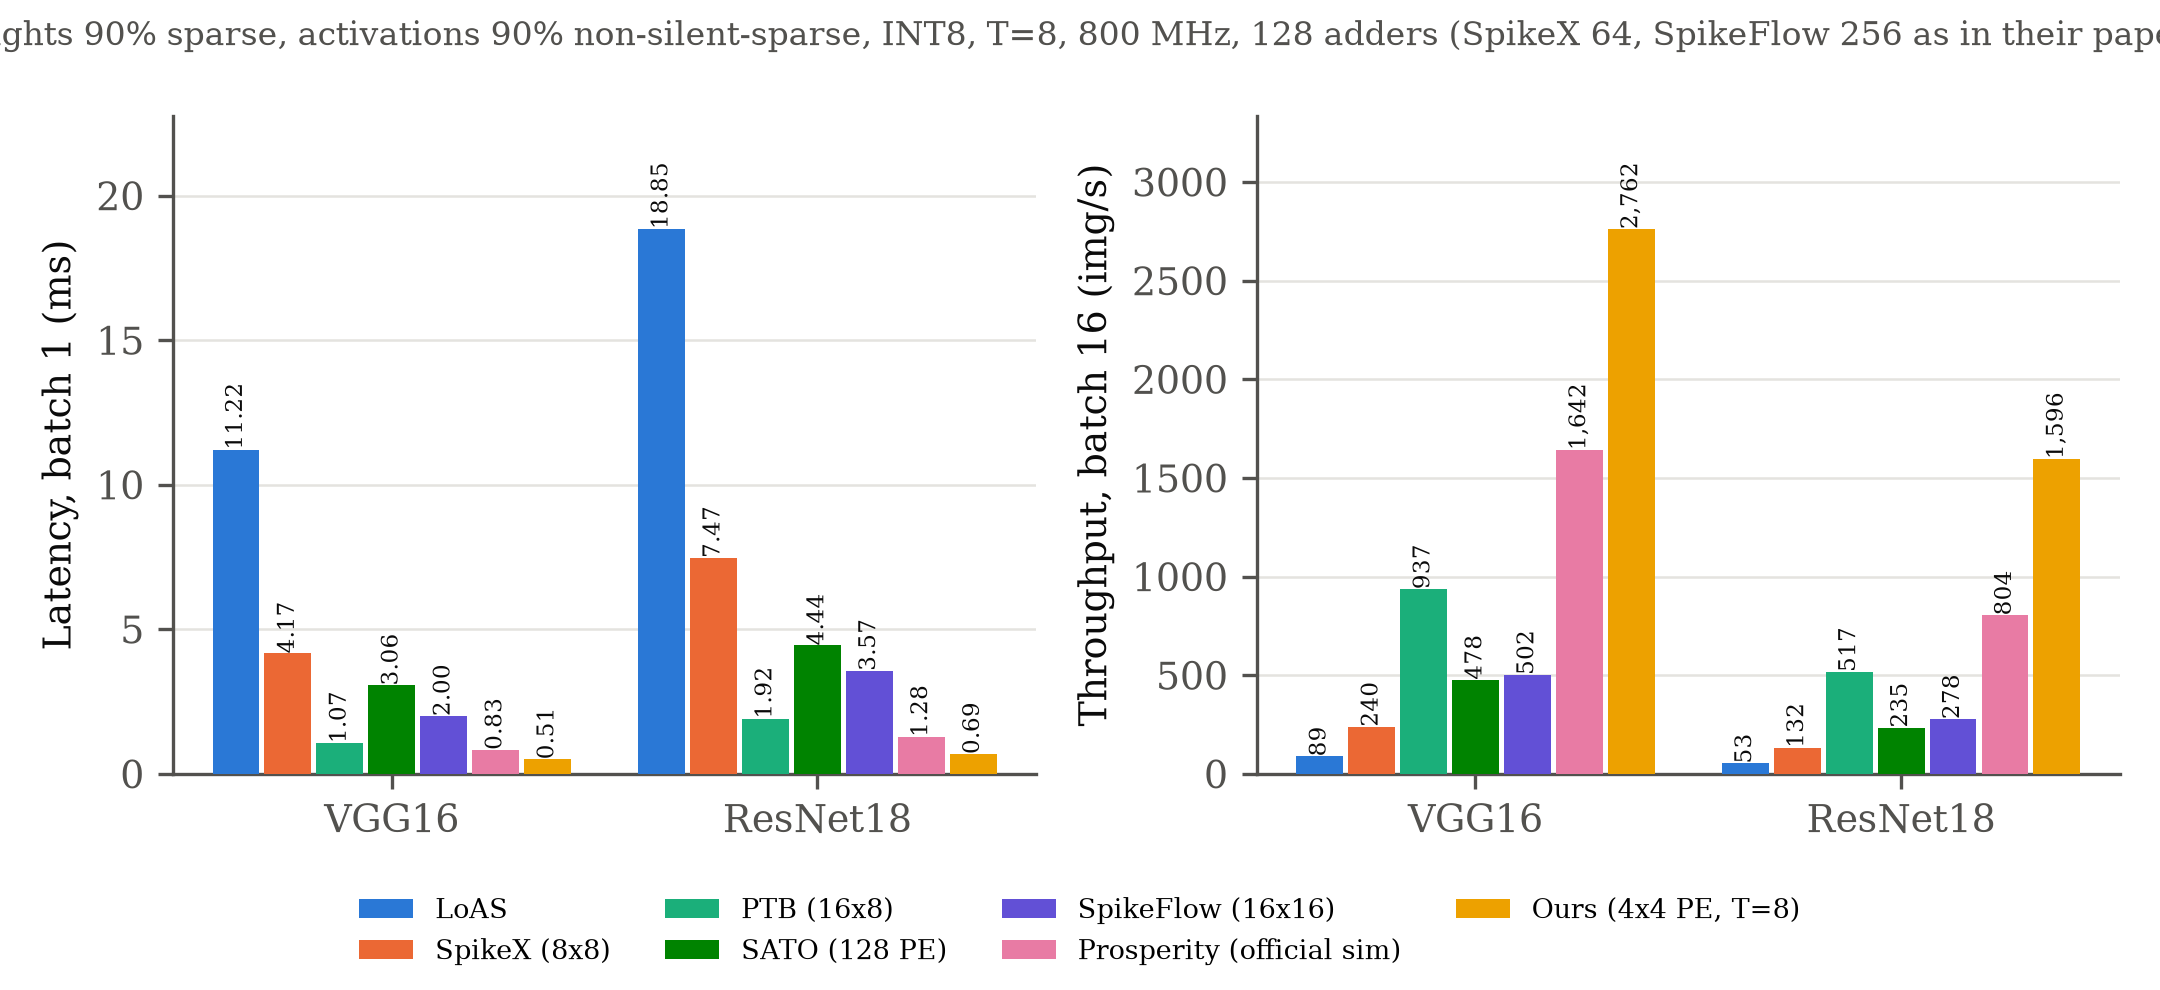
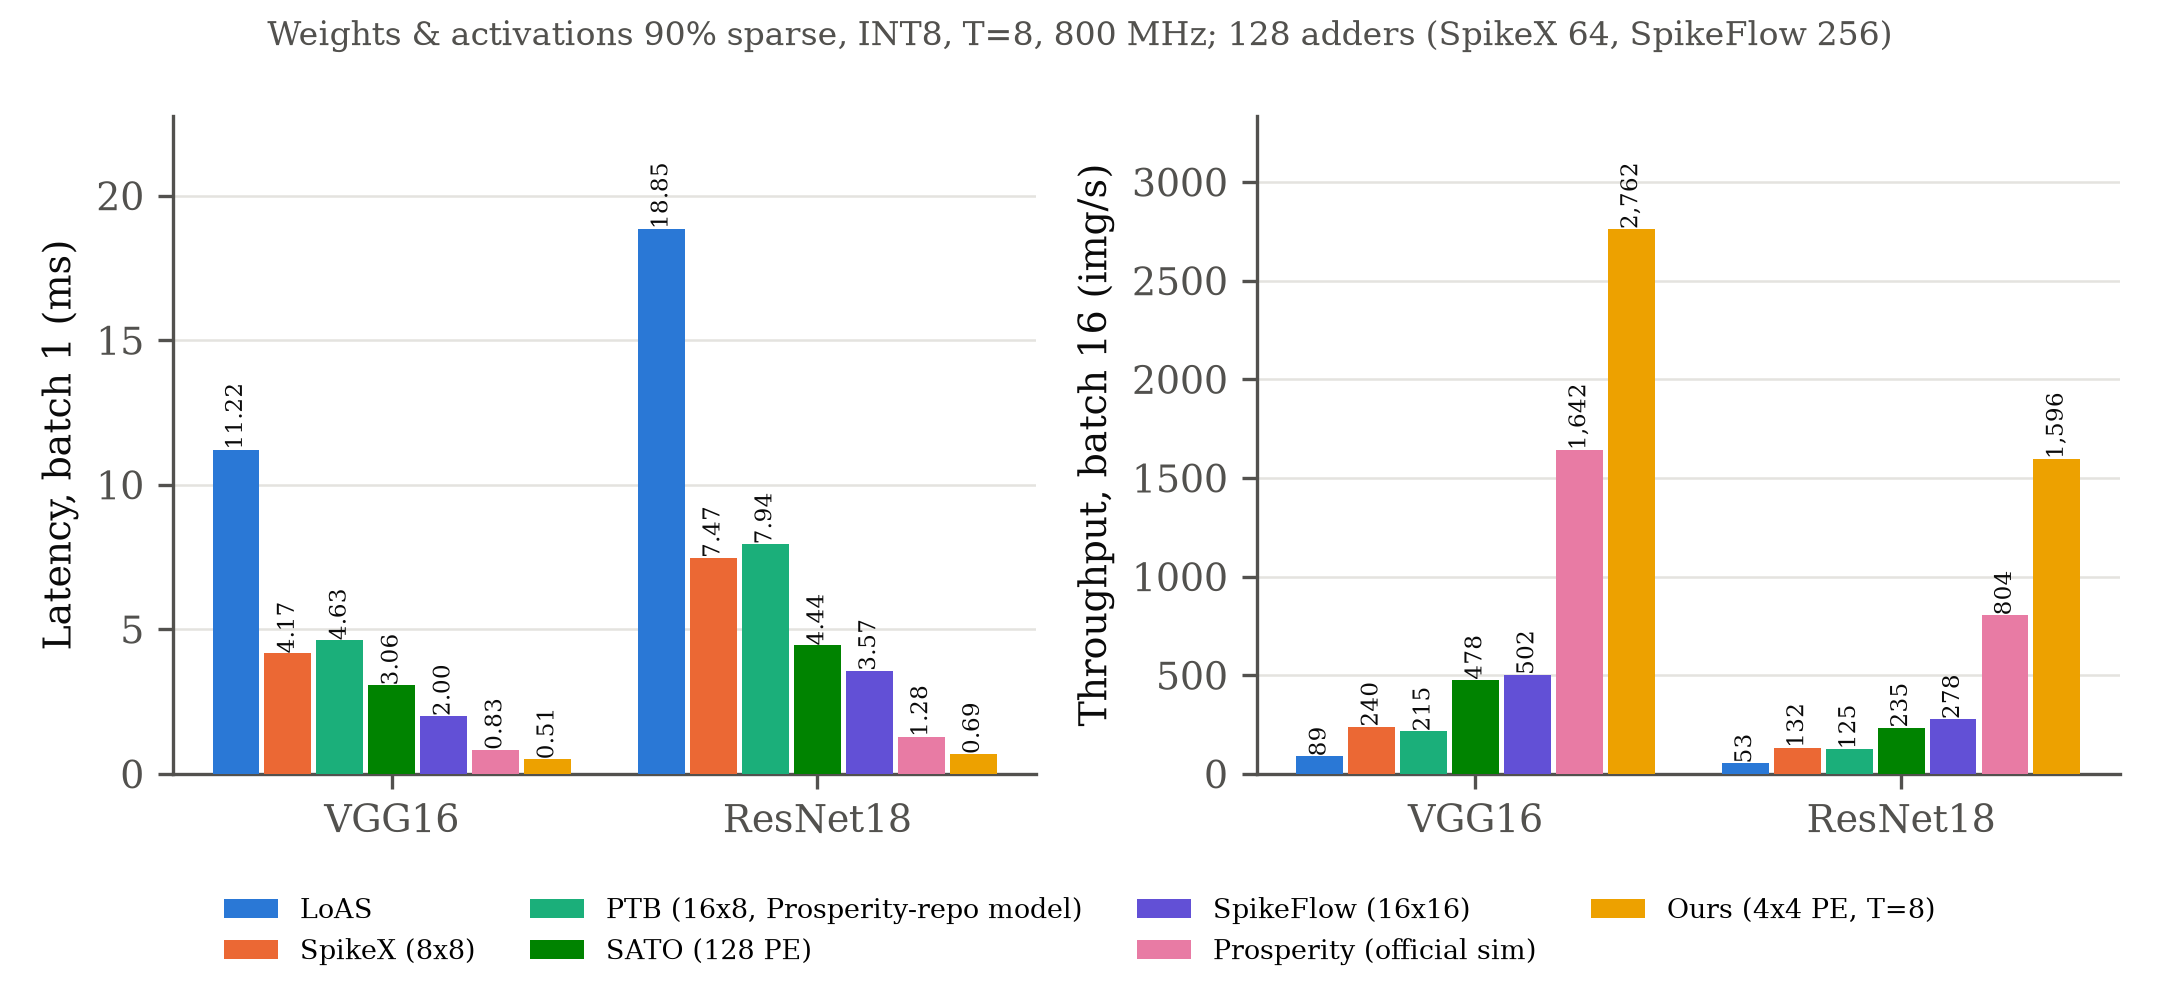
Use the Prosperity repo's PTB model for PTB latency/throughput
- prosperity_official.py ptb_ours: our workloads as official Conv2D/FC + LIF
  operators, run through the unmodified run_simulation_PTB (TWS=4, StSAP,
  cold start, DRAM stalls); batch 16 = 16 images in sequence
- tables/plot now use it; our own (generous) PTB model kept in main.json
- README: energy section flagged as using the old PTB latency and power

diff --git a/dac2027_sim/prosperity_official.py b/dac2027_sim/prosperity_official.py
@@ -229,6 +229,59 @@ def _one(t):
 
 sys.path.insert(1, HERE)
 
+def ptb_ops_image(net, batch, b, wd, ns, q, T=8):
+    """one image (b) of our batch as official Conv2D / FC + LIF operators (conv inputs = feature maps, so the
+    Prosperity repo's own img2col and time-window packing run on them). Same seeds/tensors as run_all.py."""
+    import workload as wl
+    ops = []
+    for li, layer in enumerate(wl.NETWORKS[net]()):
+        name, ci, co, k, s, h = layer
+        M, K, N = wl.gemm_shape(layer, batch)
+        seed = zlib.crc32(f"{net}|{li}|{batch}|{wd}|{ns}|{q}".encode())
+        rng = np.random.default_rng(seed)
+        wl.rand_weights(rng, M, K, wd)                       # same draw order as workload.layer_tensors
+        X = wl.rand_spikes(rng, (batch, ci, h, h), ns, q)[b]  # (C, H, H) T-bit trains of image b
+        bits = ((X[None] >> np.arange(T)[:, None, None, None]) & 1).astype(np.float32)   # T, C, H, H
+        if k > 1 or s > 1 or h > 1:
+            op = NW.Conv2D(f"conv2d_{li}", h, ci, co, k, k // 2, s, 1, T)
+            op.activation_tensor.sparse_map = torch.from_numpy(bits)
+            nn_out = op.output_H * op.output_H * co
+        else:
+            op = NW.FC(f"fc_{li}", ci, co, 1, 1, T)
+            op.activation_tensor.sparse_map = torch.from_numpy(bits.reshape(1, T, 1, ci))
+            nn_out = co
+        ops.append(op)
+        ops.append(NW.LIFNeuron(f"lif_{li}", nn_out, 1, T))
+    return ops
+
+
+def ptb_ours():
+    """PTB = the Prosperity repo's run_simulation_PTB, unmodified. Batch 16 = the 16 images run one after
+    another (PTB has no cross-image batching; its cold start is per output pixel of each image)."""
+    from multiprocessing import Pool
+    tasks = []
+    for w in ("sparse90", "zipstats"):
+        for net in ("VGG16", "ResNet18"):
+            tasks.append((net, 1, 0, w))
+            tasks += [(net, 16, b, w) for b in range(16)]
+    with Pool(8) as p:
+        res = p.map(_ptb_one, tasks)
+    out = {}
+    for (net, batch, b, w), c in zip(tasks, res):
+        out[f"{net}|{batch}|{w}"] = out.get(f"{net}|{batch}|{w}", 0) + c
+    json.dump(out, open(os.path.join(HERE, "results", "ptb_official.json"), "w"), indent=1)
+    for k, v in out.items():
+        print(k, f"{v:,} cycles")
+
+
+def _ptb_one(t):
+    import contextlib, io
+    net, batch, b, w = t
+    wd, ns, q = WORKLOADS[w]
+    with contextlib.redirect_stdout(io.StringIO()):
+        return int(run_simulation_PTB(ptb_ops_image(net, batch, b, wd, ns, q)).total_cycles)
+
+
 if __name__ == "__main__":
     {"verify": verify, "reference": reference, "ours": ours, "sato_reference": sato_reference,
-     "sato_ours": sato_ours}[sys.argv[1]]()
+     "sato_ours": sato_ours, "ptb_ours": ptb_ours}[sys.argv[1]]()

diff --git a/dac2027_sim/plots.py b/dac2027_sim/plots.py
@@ -12,7 +12,7 @@ R = os.path.join(HERE, "results")
 ORDER = ["loas_zip", "spikex", "ptb", "sato", "spikeflow", "prosperity", "ours"]
 COL = {"loas_zip": "#2a78d6", "spikex": "#eb6834", "ptb": "#1baf7a", "ours": "#eda100", "prosperity": "#e87ba4",
        "sato": "#008300", "spikeflow": "#6250d6"}
-LAB = {"loas_zip": "LoAS", "spikex": "SpikeX (8x8)", "ptb": "PTB (16x8)", "sato": "SATO (128 PE)",
+LAB = {"loas_zip": "LoAS", "spikex": "SpikeX (8x8)", "ptb": "PTB (16x8, Prosperity-repo model)", "sato": "SATO (128 PE)",
        "spikeflow": "SpikeFlow (16x16)", "prosperity": "Prosperity (official sim)", "ours": "Ours (4x4 PE, T=8)"}
 INK, INK2, GRID = "#0b0b0b", "#52514e", "#e4e3df"
 plt.rcParams.update({"font.family": "serif", "font.size": 9, "axes.edgecolor": INK2, "axes.labelcolor": INK,
@@ -38,8 +38,8 @@ def bars():
         ax.set_ylim(0, ax.get_ylim()[1] * 1.15)
     h, l = axes[0].get_legend_handles_labels()
     fig.legend(h, l, fontsize=6.5, frameon=False, loc="lower center", ncol=4)
-    fig.suptitle("Weights 90% sparse, activations 90% non-silent-sparse, INT8, T=8, 800 MHz, 128 adders "
-                 "(SpikeX 64, SpikeFlow 256 as in their papers)", fontsize=8, color=INK2)
+    fig.suptitle("Weights & activations 90% sparse, INT8, T=8, 800 MHz; 128 adders (SpikeX 64, SpikeFlow 256)",
+                 fontsize=8, color=INK2)
     fig.tight_layout(rect=(0, 0.11, 1, 1))
     fig.savefig(os.path.join(R, "latency_throughput_sparse90.png"), dpi=300)
 

diff --git a/dac2027_sim/run_all.py b/dac2027_sim/run_all.py
@@ -69,7 +69,7 @@ def run(tasks, cache_file):
     return cache
 
 
-DESIGNS = [("loas_zip", "LoAS"), ("spikex", "SpikeX (8x8)"), ("ptb", "PTB (16x8)"), ("sato", "SATO (128 PE)"),
+DESIGNS = [("loas_zip", "LoAS"), ("spikex", "SpikeX (8x8)"), ("ptb", "PTB (16x8, Prosperity-repo model)"), ("sato", "SATO (128 PE)"),
            ("spikeflow", "SpikeFlow (16x16)"), ("prosperity", "Prosperity (official sim)"), ("ours", "Ours (4x4, T=8)")]
 ADDERS = {"ours": 128, "loas_zip": 128, "ptb": 128, "spikex": 64, "prosperity": 128, "sato": 128, "spikeflow": 256}
 
@@ -77,7 +77,8 @@ ADDERS = {"ours": 128, "loas_zip": 128, "ptb": 128, "spikex": 64, "prosperity": 
 def summarize(cache, wname, nets=("VGG16", "ResNet18")):
     rows = {}
     official = {}
-    for d, f in (("prosperity", "prosperity_official.json"), ("sato", "sato_official.json")):
+    for d, f in (("prosperity", "prosperity_official.json"), ("sato", "sato_official.json"),
+                 ("ptb", "ptb_official.json")):
         p = os.path.join(OUT, f)                               # official Prosperity-repo simulators
         if os.path.exists(p):
             official[d] = json.load(open(p))

diff --git a/dac2027_sim/README.md b/dac2027_sim/README.md
@@ -20,14 +20,14 @@ This is the workload the author specified in `current_arch/REPORT.md` section 15
 |---|---|---:|---:|---:|---:|
 | VGG16 | LoAS | 11.217 | 22.1x | 89 | 31.0x |
 | VGG16 | SpikeX (8x8) | 4.170 | 8.2x | 240 | 11.5x |
-| VGG16 | PTB (16x8) | 1.067 | 2.1x | 937 | 2.9x |
+| VGG16 | PTB (16x8, Prosperity-repo model) | 4.627 | 9.1x | 215 | 12.8x |
 | VGG16 | SATO (128 PE, Prosperity-repo model) | 3.060 | 6.0x | 478 | 5.8x |
 | VGG16 | SpikeFlow (16x16) | 2.002 | 3.9x | 502 | 5.5x |
 | VGG16 | Prosperity (official simulator) | 0.833 | 1.6x | 1,642 | 1.7x |
 | VGG16 | **Ours (4x4 PE x 8 adders)** | **0.507** | – | **2,762** | – |
 | ResNet18 | LoAS | 18.846 | 27.4x | 53 | 30.1x |
 | ResNet18 | SpikeX (8x8) | 7.472 | 10.9x | 132 | 12.0x |
-| ResNet18 | PTB (16x8) | 1.915 | 2.8x | 517 | 3.1x |
+| ResNet18 | PTB (16x8, Prosperity-repo model) | 7.941 | 11.5x | 125 | 12.8x |
 | ResNet18 | SATO (128 PE, Prosperity-repo model) | 4.444 | 6.5x | 235 | 6.8x |
 | ResNet18 | SpikeFlow (16x16) | 3.568 | 5.2x | 278 | 5.7x |
 | ResNet18 | Prosperity (official simulator) | 1.282 | 1.9x | 804 | 2.0x |
@@ -37,6 +37,9 @@ This is the workload the author specified in `current_arch/REPORT.md` section 15
 
 The full tables, with cycles and img/s per adder, are in `results/main_tables.md`.
 
+* **PTB** numbers come from the **PTB model inside the official Prosperity simulator** (`baselines.run_simulation_PTB`), run unmodified via `prosperity_official.py ptb_ours`. It reproduces the Prosperity paper's PTB reference times exactly.
+  * The model: a 16×8 array with fixed TWS=4, StSAP packing, a per-output-pixel cold start, DRAM stalls and LIF cycles. Batch 16 = the 16 images run one after another.
+  * Our own PTB model (`baselines.ptb_layer_cycles`) agrees with it within 0–7% at the same settings (see the validation section). Our earlier, generous settings (best TWS=1, no cold start or stalls) gave 1.067 ms on VGG16 and 1.915 ms on ResNet18. Those are kept in `results/main.json` as `ptb`.
 * **LoAS** uses the zip's closed form and statistics unchanged: 16 TPPEs, `matches + 21` per 128-chunk, and p = 0.261. `verify.py` reproduces the zip exactly: VGG16 = 8,973,849 cycles = 11.2173 ms. The zip has no ResNet18 entry, so the same formula was applied to the standard CIFAR ResNet18. The zip's p does not depend on weight sparsity, so LoAS is the same on every workload below.
 
 * **Prosperity** numbers come from the **official Prosperity simulator** (github Prosperity-main, MIT, vendored unmodified in `third_party/prosperity`), run by `prosperity_official.py`.
@@ -141,7 +144,7 @@ Timing rules (full list in the `ours.py` docstring):
 >
 > With the scratchpads, PTB synthesizes to 0.953 mm² and SpikeX to 0.468 mm².
 >
-> The power, energy and EDP numbers below are from the version **without** scratchpads (PTB 0.093 mm², SpikeX 0.037 mm²) and must be re-measured. Prosperity has no RTL here, so it appears only in the latency and throughput results.
+> The power, energy and EDP numbers below are from the version **without** scratchpads (PTB 0.093 mm², SpikeX 0.037 mm²) and must be re-measured. They also still use our earlier PTB latency (1.067 / 1.915 ms), not the Prosperity-repo PTB latency (4.627 / 7.941 ms) now used above. Prosperity has no RTL here, so it appears only in the latency and throughput results.
 
 All four designs were synthesized with the same flow and library:
 - **Synthesis:** Yosys 0.66 + ABC to the Nangate45 typical library (from the OpenSTA install).
@@ -277,7 +280,7 @@ Our PTB cycle model, run at the same settings, agrees with theirs within 0–7%:
 |---|---|
 | Prosperity | Exact: official code, reference results reproduced (within 0.8%) |
 | SATO | Exact against the Prosperity repo's SATO model and reference times |
-| PTB | Against a third-party implementation: 0–7%, with the PTB paper's own data unavailable |
+| PTB | Numbers are the Prosperity repo's PTB model, which reproduces that paper's PTB reference exactly. Our own model agrees with it within 0–7%. The PTB paper's own data is unavailable |
 | SpikeX | Approximate: Fig. 10 trend and magnitude, 1.45–5.2× vs the paper's 1.3–7.1× |
 | SpikeFlow | Approximate: Fig. 17 direction and range; PE area ratio |
 

diff --git a/dac2027_sim/results/main_tables.md b/dac2027_sim/results/main_tables.md
@@ -4,14 +4,14 @@
 |---|---|---:|---:|---:|---:|---:|---:|
 | VGG16 | LoAS | 8,973,849 | 11.217 | 22.15x | 89 | 30.98x | 0.70 |
 | VGG16 | SpikeX (8x8) | 3,335,686 | 4.170 | 8.23x | 240 | 11.52x | 3.75 |
-| VGG16 | PTB (16x8) | 853,729 | 1.067 | 2.11x | 937 | 2.95x | 7.32 |
+| VGG16 | PTB (16x8, Prosperity-repo model) | 3,701,483 | 4.627 | 9.13x | 215 | 12.83x | 1.68 |
 | VGG16 | SATO (128 PE) | 2,448,376 | 3.060 | 6.04x | 478 | 5.78x | 3.73 |
 | VGG16 | SpikeFlow (16x16) | 1,601,259 | 2.002 | 3.95x | 502 | 5.50x | 1.96 |
 | VGG16 | Prosperity (official sim) | 666,778 | 0.833 | 1.65x | 1,642 | 1.68x | 12.83 |
 | VGG16 | Ours (4x4, T=8) | 405,230 | 0.507 | 1.00x | 2,762 | 1.00x | 21.58 |
 | ResNet18 | LoAS | 15,076,980 | 18.846 | 27.38x | 53 | 30.08x | 0.41 |
 | ResNet18 | SpikeX (8x8) | 5,977,620 | 7.472 | 10.85x | 132 | 12.05x | 2.07 |
-| ResNet18 | PTB (16x8) | 1,532,172 | 1.915 | 2.78x | 517 | 3.09x | 4.04 |
+| ResNet18 | PTB (16x8, Prosperity-repo model) | 6,352,976 | 7.941 | 11.54x | 125 | 12.78x | 0.98 |
 | ResNet18 | SATO (128 PE) | 3,555,140 | 4.444 | 6.46x | 235 | 6.78x | 1.84 |
 | ResNet18 | SpikeFlow (16x16) | 2,854,289 | 3.568 | 5.18x | 278 | 5.74x | 1.09 |
 | ResNet18 | Prosperity (official sim) | 1,025,513 | 1.282 | 1.86x | 804 | 1.99x | 6.28 |
@@ -23,14 +23,14 @@
 |---|---|---:|---:|---:|---:|---:|---:|
 | VGG16 | LoAS | 8,973,849 | 11.217 | 1.94x | 89 | 2.46x | 0.70 |
 | VGG16 | SpikeX (8x8) | 8,658,454 | 10.823 | 1.87x | 92 | 2.38x | 1.44 |
-| VGG16 | PTB (16x8) | 2,205,824 | 2.757 | 0.48x | 361 | 0.61x | 2.82 |
+| VGG16 | PTB (16x8, Prosperity-repo model) | 7,439,307 | 9.299 | 1.61x | 107 | 2.05x | 0.84 |
 | VGG16 | SATO (128 PE) | 4,541,498 | 5.677 | 0.98x | 318 | 0.69x | 2.48 |
 | VGG16 | SpikeFlow (16x16) | 3,869,059 | 4.836 | 0.84x | 208 | 1.05x | 0.81 |
 | VGG16 | Prosperity (official sim) | 1,117,161 | 1.396 | 0.24x | 807 | 0.27x | 6.30 |
 | VGG16 | Ours (4x4, T=8) | 4,623,242 | 5.779 | 1.00x | 219 | 1.00x | 1.71 |
 | ResNet18 | LoAS | 15,076,980 | 18.846 | 2.22x | 53 | 2.37x | 0.41 |
 | ResNet18 | SpikeX (8x8) | 15,711,996 | 19.640 | 2.31x | 51 | 2.47x | 0.80 |
-| ResNet18 | PTB (16x8) | 4,003,844 | 5.005 | 0.59x | 200 | 0.63x | 1.56 |
+| ResNet18 | PTB (16x8, Prosperity-repo model) | 12,031,392 | 15.039 | 1.77x | 66 | 1.90x | 0.52 |
 | ResNet18 | SATO (128 PE) | 5,254,034 | 6.568 | 0.77x | 163 | 0.77x | 1.27 |
 | ResNet18 | SpikeFlow (16x16) | 6,912,849 | 8.641 | 1.02x | 116 | 1.09x | 0.45 |
 | ResNet18 | Prosperity (official sim) | 2,034,105 | 2.543 | 0.30x | 401 | 0.31x | 3.13 |
